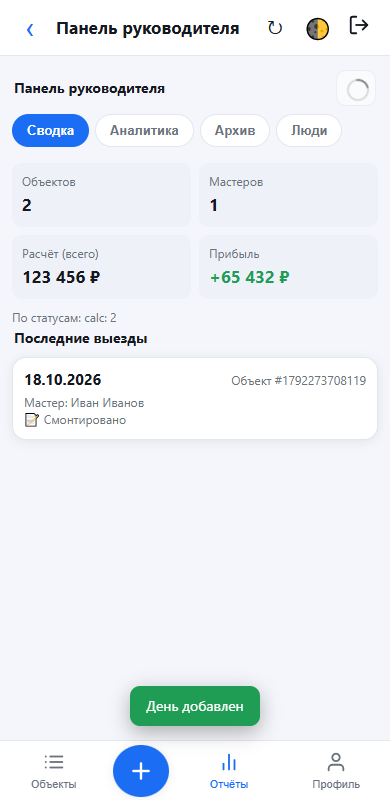
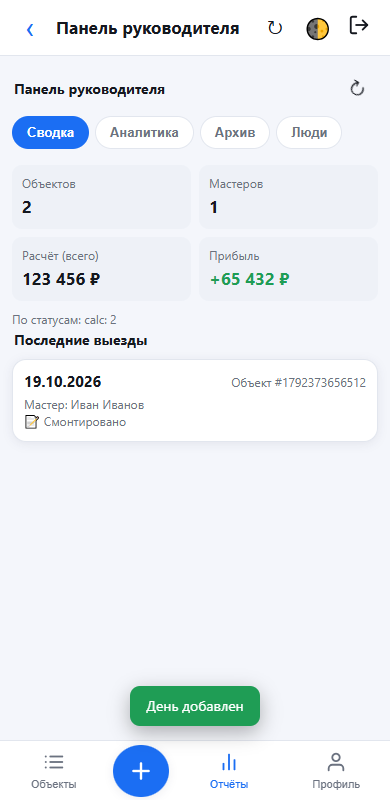
fix: ↻ в админке крутится как в шапке (.iconbtn + .spin, без кружка)
Раньше для отклика на клик ↻ в админ-панели навешивался .btn.is-loading
(отдельный белый кружок). Пользователь ожидал то же поведение, что у
кнопки синхронизации в шапке приложения (#syncBtn), где сам глиф ↻
вращается через .iconbtn + .spin.

- admin.js: класс кнопки сменён на .iconbtn (как у #syncBtn), убран
  min-width. setRefreshing теперь переключает .spin вместо .is-loading.
- ui_full_test.js: проверки обновлены под .spin. Скриншот
  shot_admin_refresh.png — стрелка ↻ поймана под углом во время
  вращения, рядом видна такая же ↻ в глобальной шапке.
- Тесты 38/38 PASS.

diff --git a/scripts/ui_full_test.js b/scripts/ui_full_test.js
@@ -472,8 +472,9 @@ function sleep(ms) { return new Promise(function (r) { setTimeout(r, ms); }); }
       });
       rec('Админ: офлайн-кэш записан в localStorage', adminCache.report && adminCache.analytics && adminCache.archive && adminCache.users, JSON.stringify(adminCache));
 
-      // Спиннер на кнопке обновления: клик показывает загрузку, после — снимает
-      // Замедлим мок, чтобы спиннер был виден на скриншоте.
+      // Спиннер на кнопке обновления: клик крутит саму стрелку ↻ (класс .spin, как в шапке),
+      // после загрузки вращение снимается.
+      // Замедлим мок, чтобы крутящаяся стрелка была видна на скриншоте.
       await page.evaluate(function () { window.__mockDelay = 1200; });
       var refreshBtnFound = await page.evaluate(function () {
         var b = document.querySelector('button[aria-label="Обновить с сервера"]');
@@ -484,15 +485,15 @@ function sleep(ms) { return new Promise(function (r) { setTimeout(r, ms); }); }
       rec('Админ: кнопка ↻ найдена и кликнута', refreshBtnFound);
       var spinnerShown = await waitFor(page, function () {
         var b = document.querySelector('button[aria-label="Обновить с сервера"]');
-        return b && b.classList.contains('is-loading') && b.disabled;
+        return b && b.classList.contains('spin') && b.disabled;
       }, 800);
-      rec('Админ: ↻ показывает спиннер во время загрузки', spinnerShown);
+      rec('Админ: ↻ крутит стрелку во время загрузки (.spin)', spinnerShown);
       if (spinnerShown) await page.screenshot({ path: path.resolve(__dirname, 'shot_admin_refresh.png') });
       var spinnerGone = await waitFor(page, function () {
         var b = document.querySelector('button[aria-label="Обновить с сервера"]');
-        return b && !b.classList.contains('is-loading') && !b.disabled;
+        return b && !b.classList.contains('spin') && !b.disabled;
       }, 5000);
-      rec('Админ: ↻ снимает спиннер после загрузки', spinnerGone);
+      rec('Админ: ↻ снимает вращение после загрузки', spinnerGone);
       await page.evaluate(function () { window.__mockDelay = 5; });
     }
     if (adminOk) {

diff --git a/public/js/features/admin.js b/public/js/features/admin.js
@@ -56,10 +56,12 @@ window.Admin = (function () {
   }
 
   function buildShell(app) {
+    // Кнопка обновления — тот же вид и поведение, что у ↻-синхронизации в шапке
+    // приложения (.iconbtn + .spin вращает саму стрелку, без отдельного кружка).
     ADMIN.refreshBtn = U.el('button', {
-      class: 'btn btn--sm', type: 'button',
+      class: 'iconbtn', type: 'button',
       'aria-label': 'Обновить с сервера', title: 'Обновить с сервера',
-      text: '↻', style: { minWidth: '40px' },
+      text: '↻',
       onclick: manualRefresh
     });
     app.appendChild(U.el('div', { class: 'section-head' }, [
@@ -138,11 +140,12 @@ window.Admin = (function () {
     var b = ADMIN.refreshBtn;
     if (!b) return;
     if (on) {
-      b.classList.add('is-loading');
+      // Вращаем саму стрелку ↻, как кнопка синхронизации в шапке приложения.
+      b.classList.add('spin');
       b.disabled = true;
       b.setAttribute('aria-busy', 'true');
     } else {
-      b.classList.remove('is-loading');
+      b.classList.remove('spin');
       b.disabled = false;
       b.removeAttribute('aria-busy');
     }
